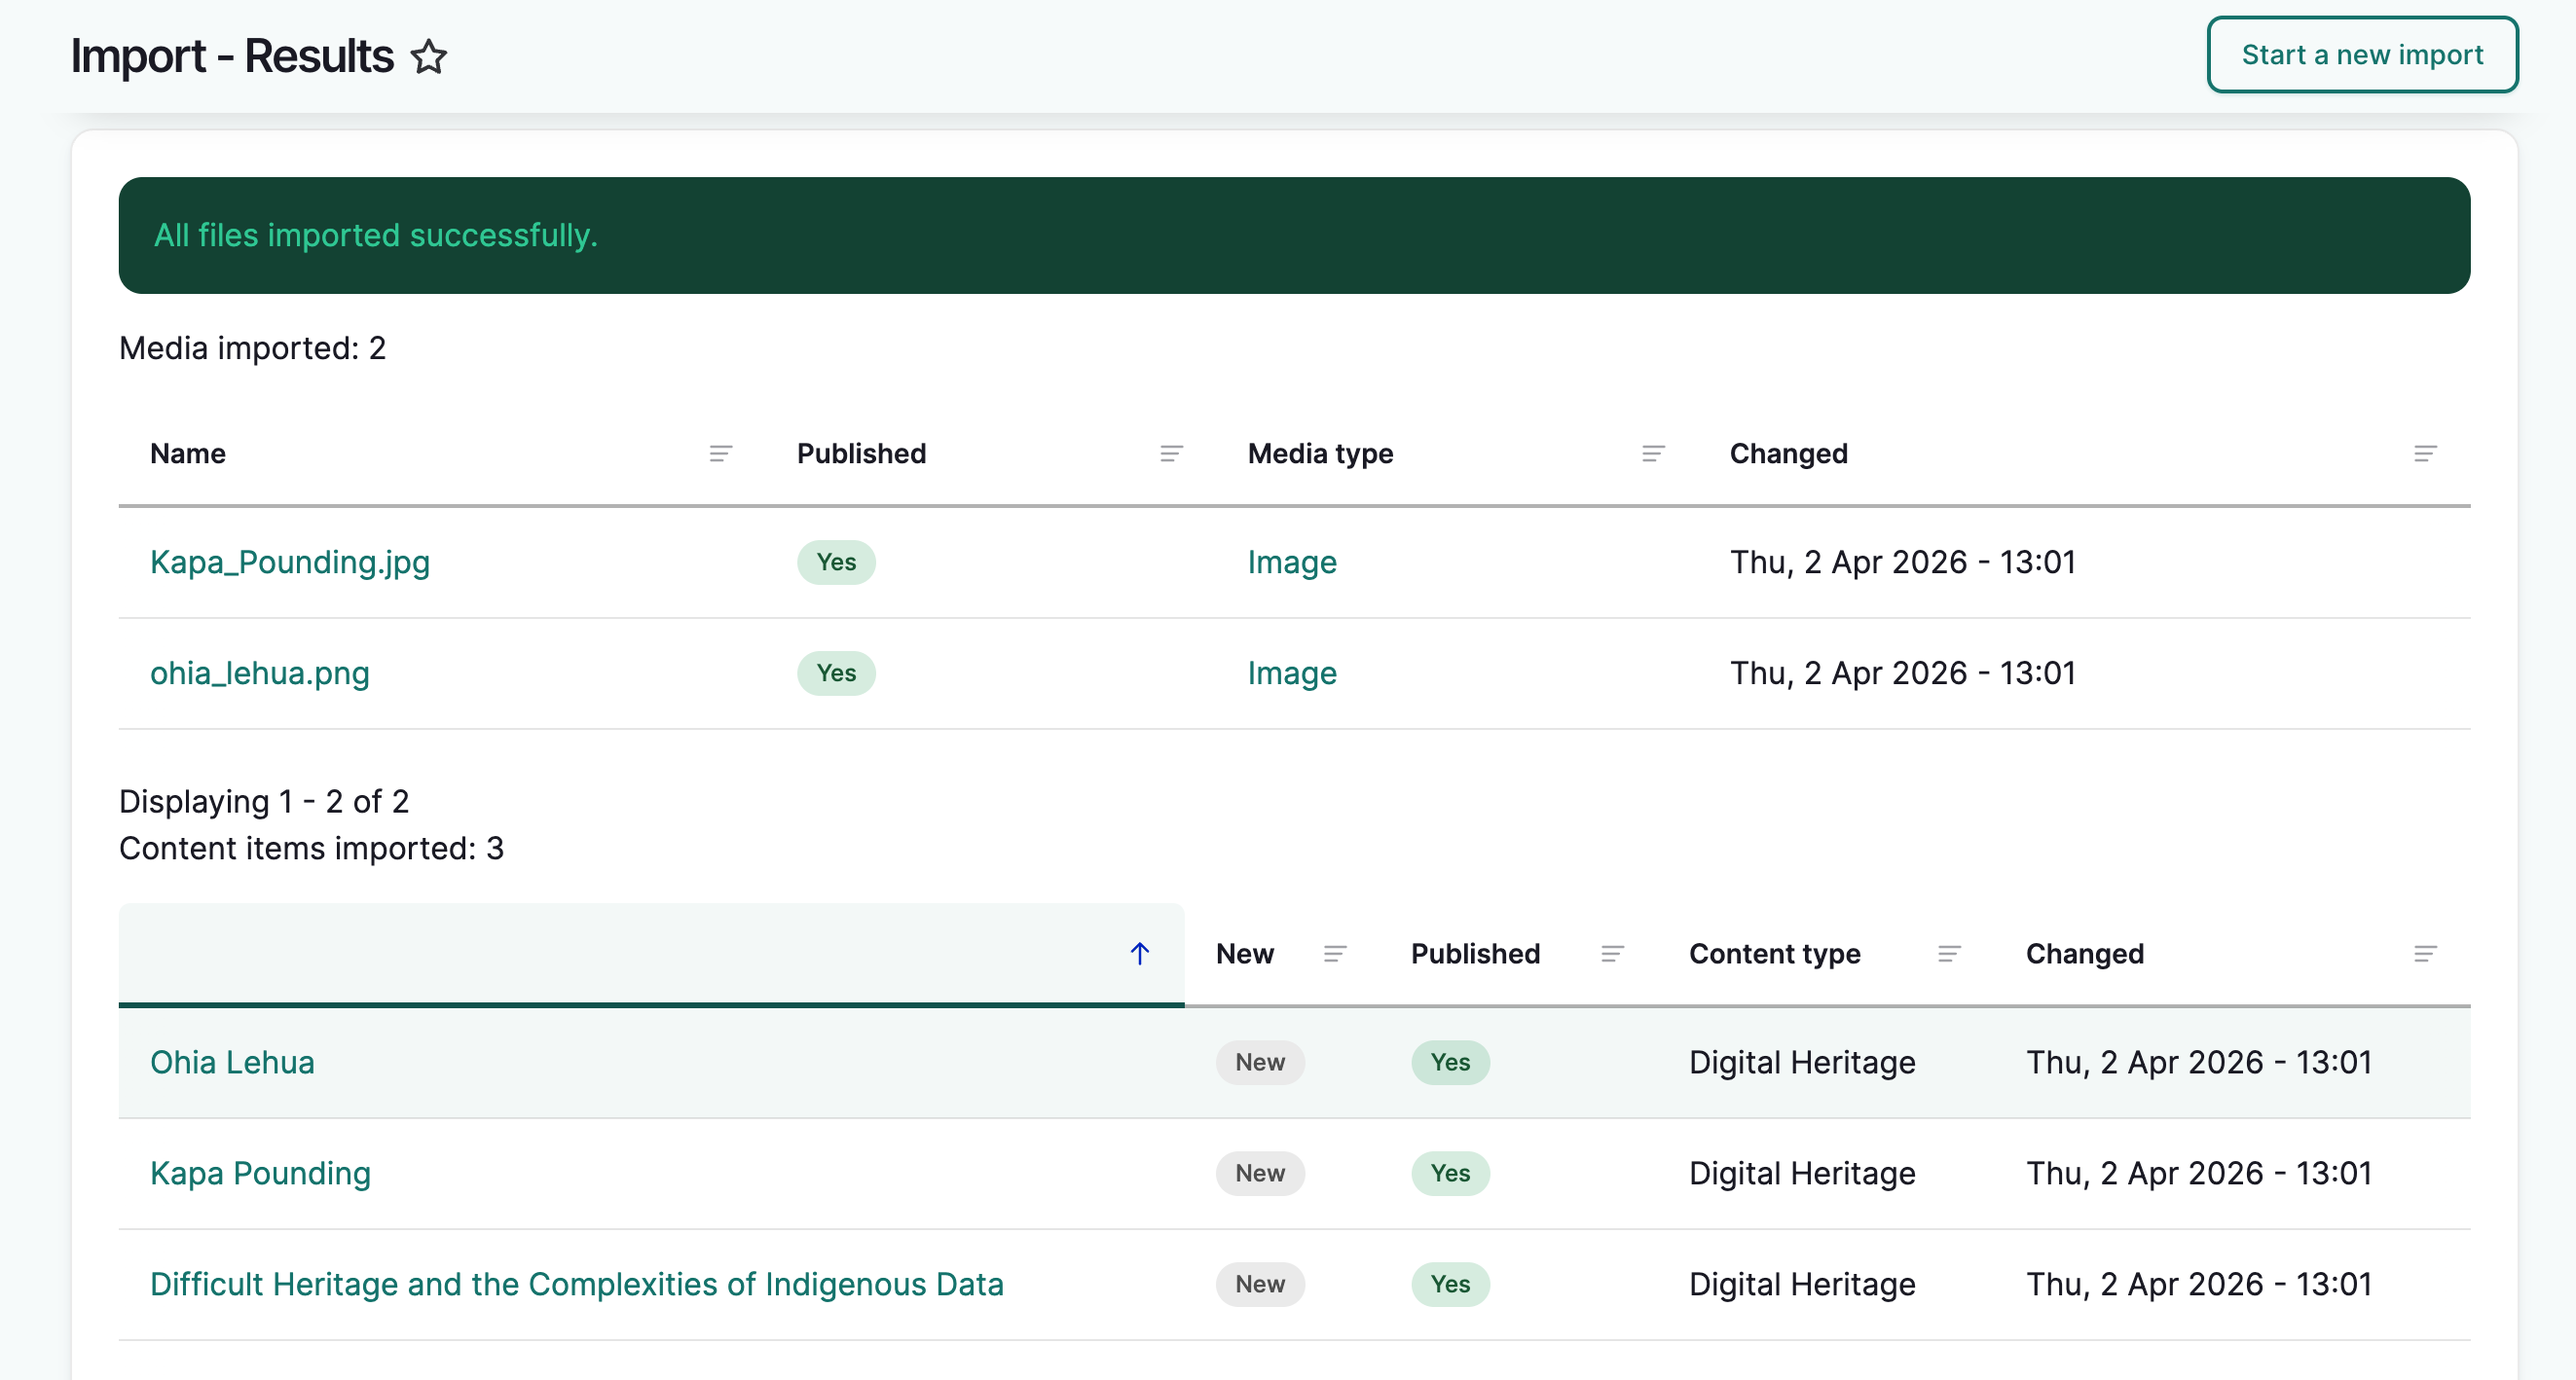
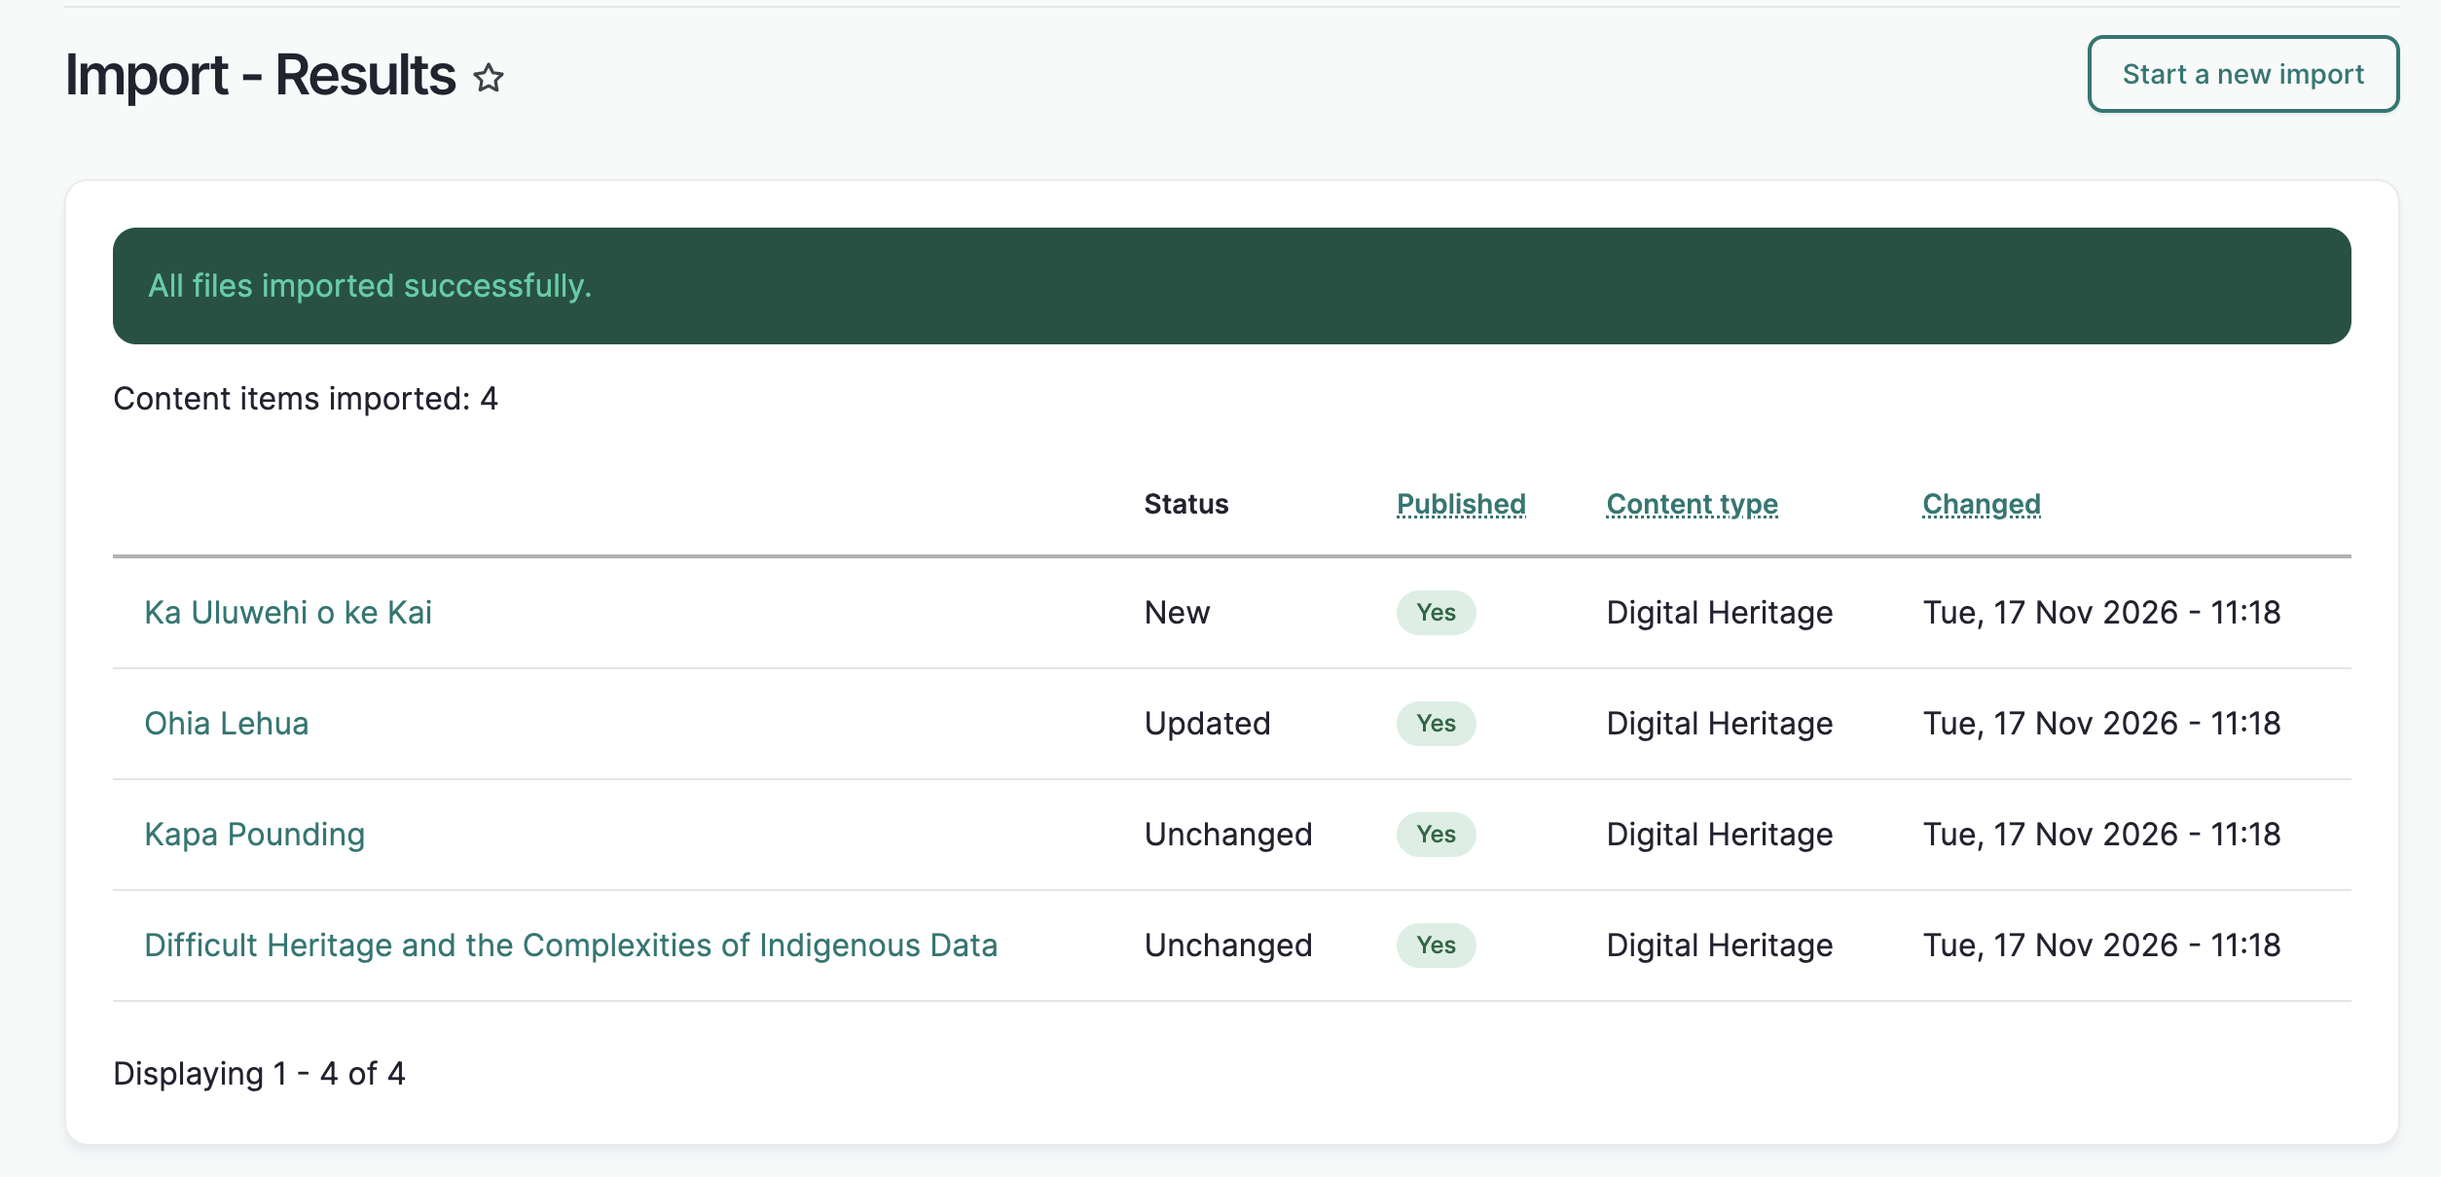
Various updates

diff --git a/docs/site-settings/ConfigureCookiesAndConsentSettings.md b/docs/site-settings/ConfigureCookiesAndConsentSettings.md
@@ -10,6 +10,9 @@ tags:
 
 Mukurtu uses Klaro! to manage cookies and consent settings. This protects visitor data and privacy while they're browsing the site and obtains user consent to serve 3rd party content on the site.
 
+!!! Tip
+    If you prefer not to use Klaro! It can be uninstalled from the **uninstall** tab at `/admin/modules.` Should you decide to reinstall Klaro!, the settings it had when it was uninstalled will be restored.
+
 This article will touch on basic settings. For more detail, see [Klaro Cookie and Consent Management](https://www.drupal.org/docs/extending-drupal/contributed-modules/contributed-module-documentation/klaro-cookie-consent-management) Documentation.
 
 ## Notice and Consent Dialogs
@@ -71,3 +74,4 @@ The **Manage** tab lists the services Klaro! supports that can be enabled for yo
 The **Texts** tab allows you to adjust any of the default verbiage used by Klaro! Notably, you can link your privacy policy page in the **Notice Dialogue** tab under **Privacy Policy**. This will display in the consent modal.
 
 ![The notice dialog fields](../_embeds/cookies-08.png)
+

diff --git a/docs/roundtrip/ImportingContent.md b/docs/roundtrip/ImportingContent.md
@@ -44,7 +44,7 @@ The import review page lists all included metadata, media files and configuratio
 
 ![The import review page listing metadata and media files. The start import button is highlighted.](../_embeds/import-content-13.png)
 
-The import will run. When complete, a results page will populate with a success message and a list of items that imported successfully. Select the titles to view each item.
+The import will run. When complete, a results page will populate with a success message and a list of items that imported successfully. The status column indicates new, updated and unchanged items. Select the titles to view each item.
 
 ![The results page with a success message and list of imported items](../_embeds/import-content-14.png)
 
